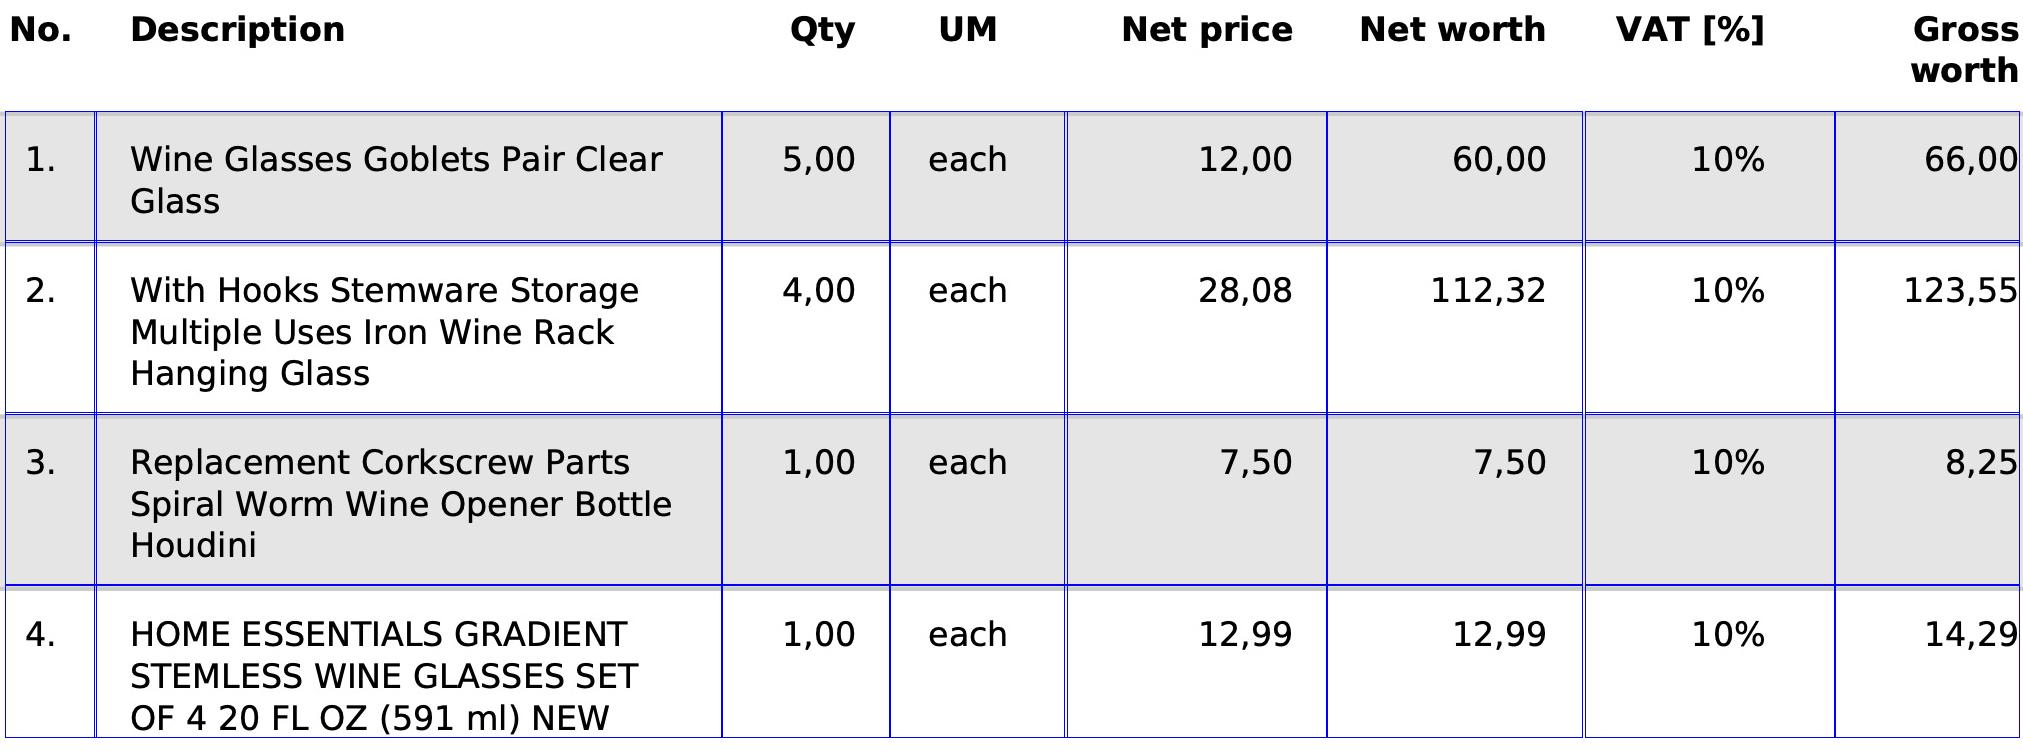
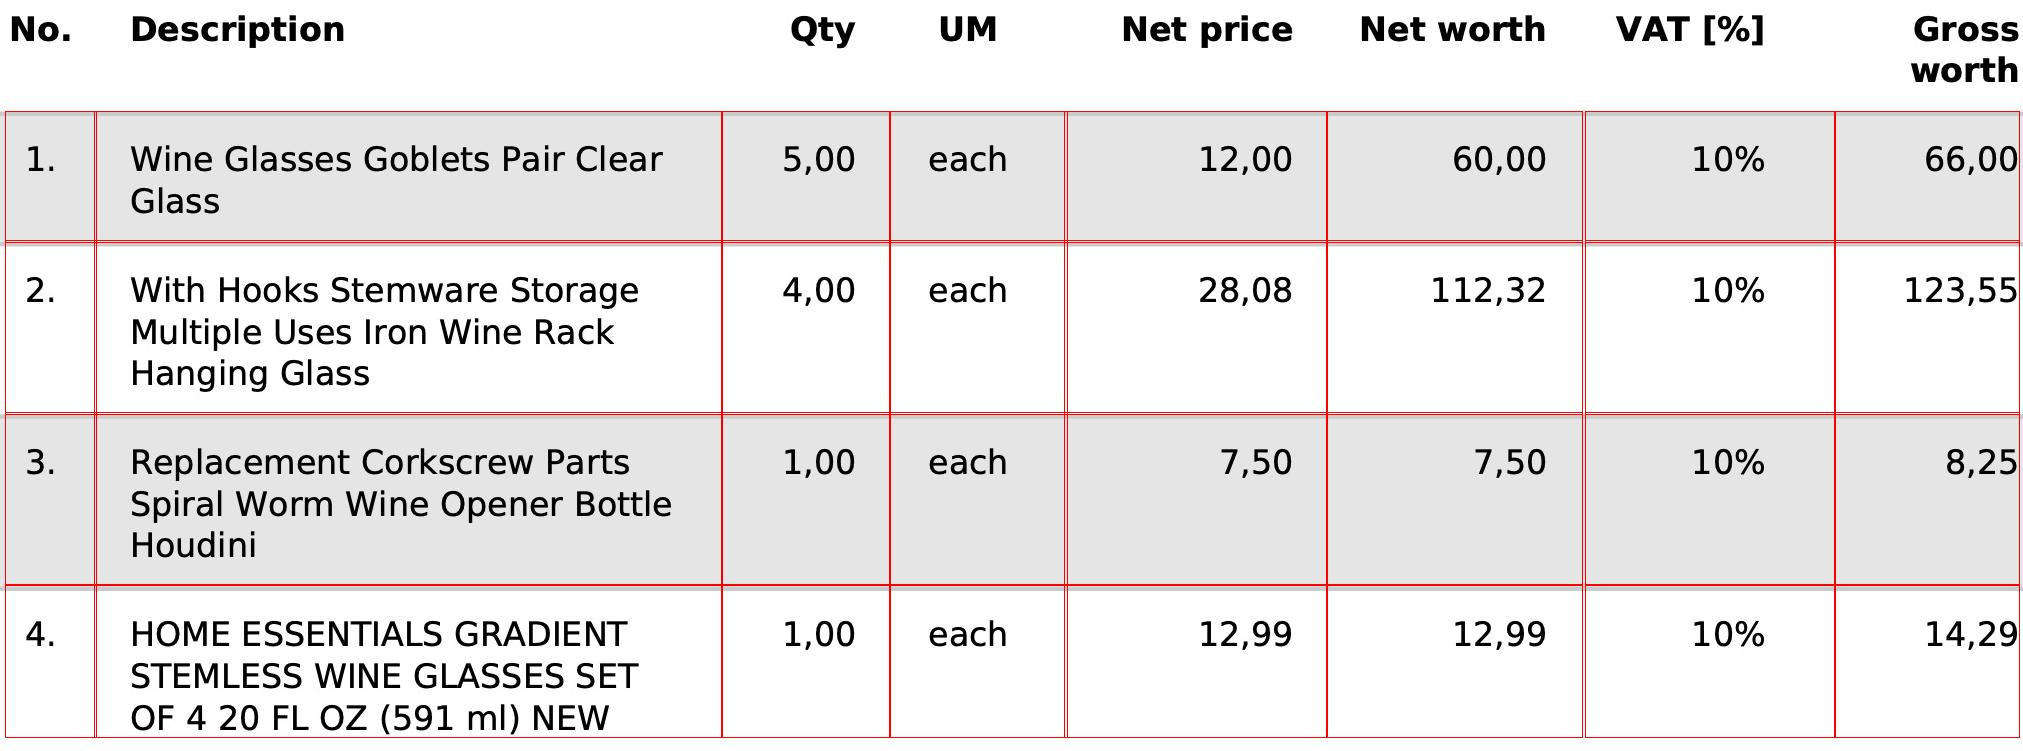
Sparrow Parse table structure parsing with Table Transformer

Changed region(s): [[0.0, 0.1225, 1.0, 0.98], [0.7785, 0.1225, 0.8097, 0.1531]]

diff --git a/sparrow-data/parse/sparrow_parse/processors/table_structure_processor.py b/sparrow-data/parse/sparrow_parse/processors/table_structure_processor.py
@@ -240,31 +240,39 @@ class TableDetector(object):
         return cells
 
     def process_table_structure(self, table_data, cropped_table, file_path):
+        cropped_table_raw_visualized = cropped_table.copy()
+        draw_raw = ImageDraw.Draw(cropped_table_raw_visualized)
+        cropped_table_header_visualized = cropped_table.copy()
+        draw_header = ImageDraw.Draw(cropped_table_header_visualized)
+        cropped_table_visualized = cropped_table.copy()
+        draw = ImageDraw.Draw(cropped_table_visualized)
+
+        table_data_filtered = [item for item in table_data if item['label'] == 'table row']
+        for cell in table_data_filtered:
+            draw_raw.rectangle(cell["bbox"], outline="red")
+        file_name_table_grid_raw = self.append_filename(file_path, "table_raw")
+        cropped_table_raw_visualized.save(file_name_table_grid_raw)
+        print("Table row raw data:")
+        print(table_data_filtered)
+
         table_data = [cell for cell in table_data if cell['label'] != 'table spanning cell']
-        table_data = [cell for cell in table_data if cell['score'] >= 0.9]
+        table_data = [cell for cell in table_data if cell['label'] != 'table']
+        table_data = [cell for cell in table_data if cell['score'] >= 0.8]
 
         # table, table column header, table row, table column
         table_data_header = [cell for cell in table_data if cell['label'] == 'table column header'
                              or cell['label'] == 'table' or cell['label'] == 'table column']
         print("Table header data:")
         print(table_data_header)
+
         table_data_rows = [cell for cell in table_data if cell['label'] == 'table column'
-                           or cell['label'] == 'table' or cell['label'] == 'table row']
-
-        table_data_rows = self.remove_matching_table_row(table_data_header, table_data_rows, tolerance=1.0)
-
+                           or cell['label'] == 'table row']
+        table_data_rows = self.remove_matching_table_row(table_data_header, table_data_rows)
         print("Table row data:")
         print(table_data_rows)
 
-        cropped_table_header_visualized = cropped_table.copy()
-        draw_header = ImageDraw.Draw(cropped_table_header_visualized)
-
-        cropped_table_visualized = cropped_table.copy()
-        draw = ImageDraw.Draw(cropped_table_visualized)
-
         header_cells = self.get_header_cell_coordinates(table_data_header)
         if header_cells is not None:
-        # Output the coordinates of each cell
             print("Header cell coordinates:")
             print(header_cells)
 
@@ -289,7 +297,7 @@ class TableDetector(object):
 
             for row_key, row_cells in table_cells.items():
                 for cell_data in row_cells:
-                    draw.rectangle(cell_data["cell"], outline="blue")
+                    draw.rectangle(cell_data["cell"], outline="red")
 
             file_name_table_grid = self.append_filename(file_path, "table_grid_cells")
             cropped_table_visualized.save(file_name_table_grid)
@@ -476,4 +484,5 @@ class TableDetector(object):
 if __name__ == "__main__":
     table_detector = TableDetector()
 
+    # table_detector.detect_table("/Users/andrejb/Documents/work/epik/bankstatement/bonds_table.png", None, local=True, debug=False)
     table_detector.detect_table("/Users/andrejb/infra/shared/katana-git/sparrow/sparrow-ml/llm/data/invoice_1.jpg", None, local=True, debug=False)
